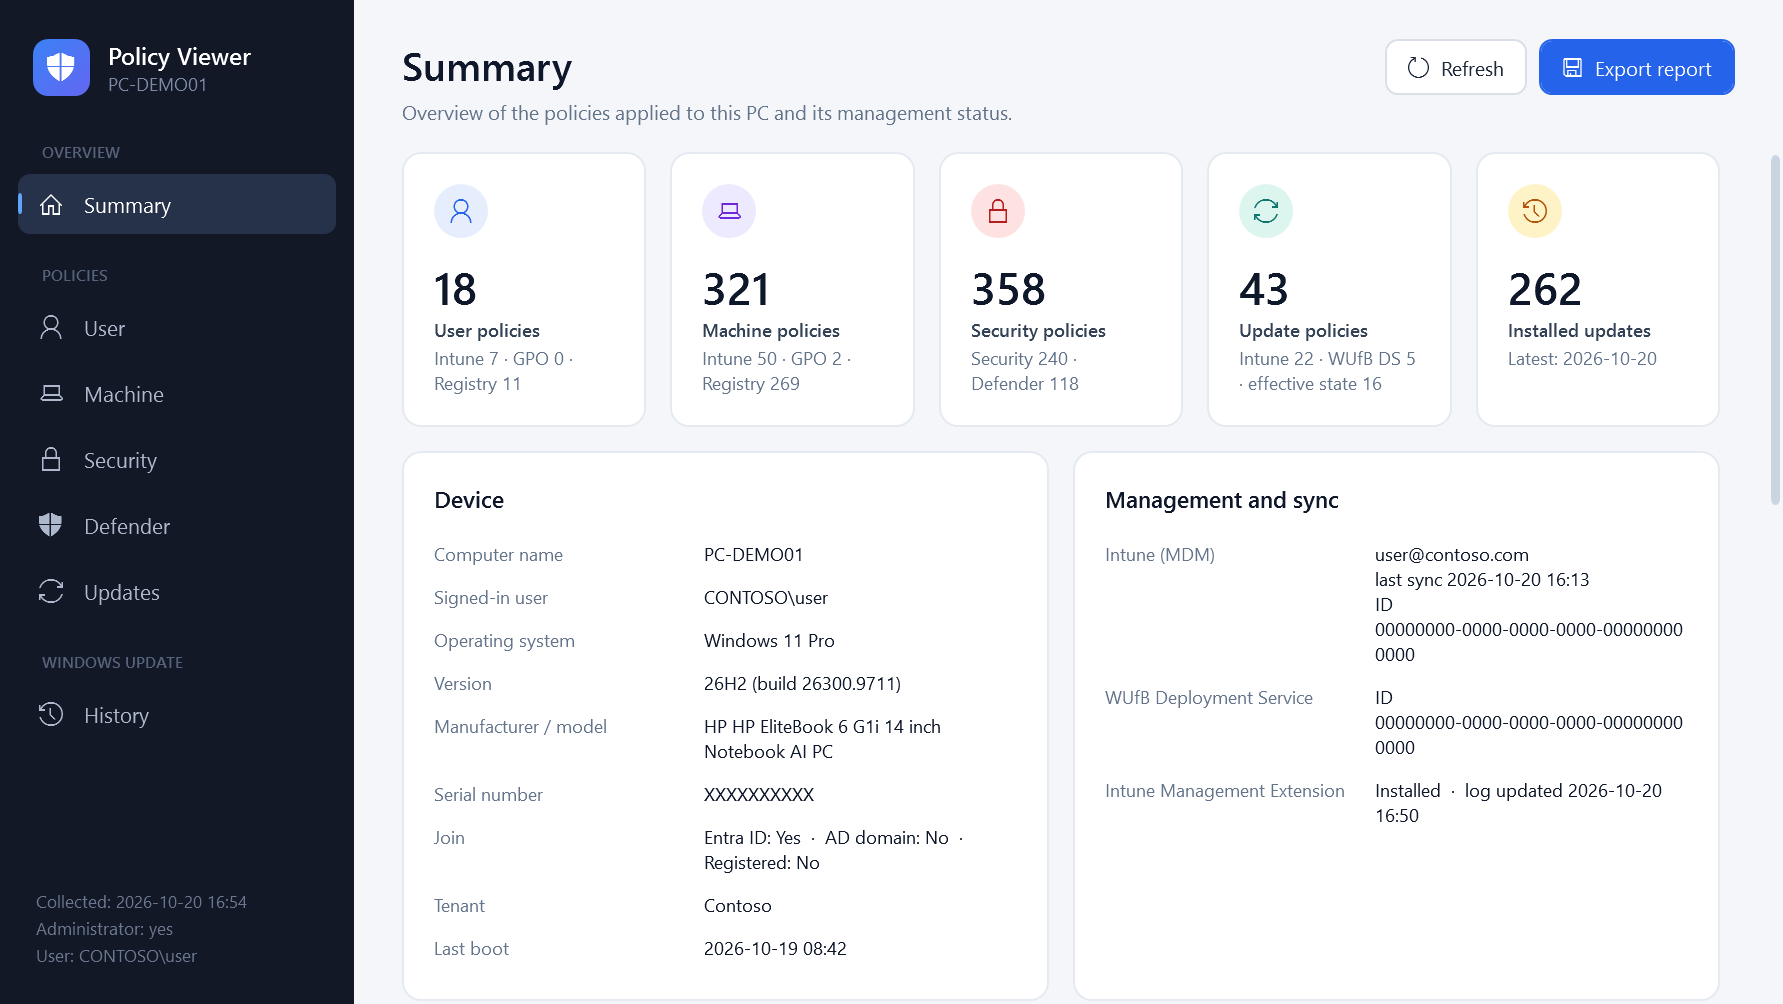
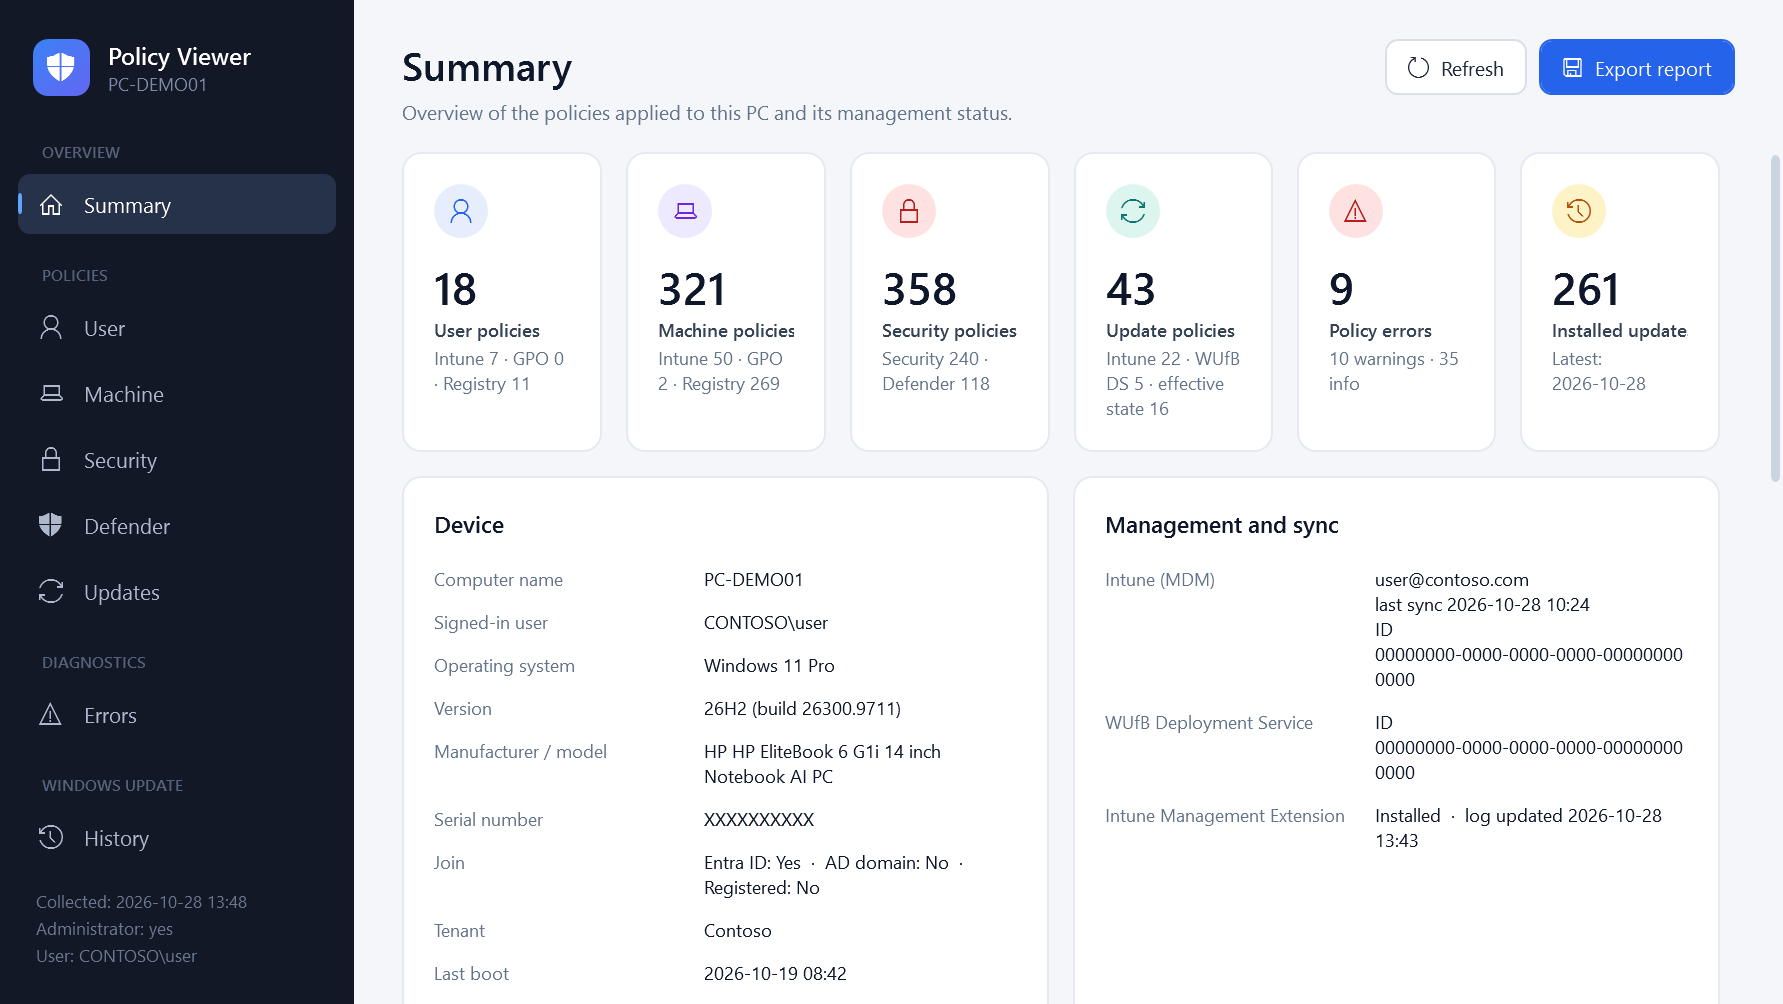
Add anonymized screenshots and fix MDM sync time zone
Add docs/screenshots (generated with --anonymize), including the new Errors page.
The MDM ConnInfo timestamps carry a Z suffix but are in local time; parse them
as local so the last sync time matches the event log.

diff --git a/src/Program.cs b/src/Program.cs
@@ -411,11 +411,12 @@ namespace PolicyViewer
             }
         }
 
+        // The "Z" suffix is misleading: Windows stores these values in local time (they match the MDM event log timestamps)
         static DateTime? ParseSyncTime(string v)
         {
             DateTime d;
-            if (v != null && DateTime.TryParseExact(v, "yyyyMMdd'T'HHmmss'Z'", CultureInfo.InvariantCulture, DateTimeStyles.AssumeUniversal | DateTimeStyles.AdjustToUniversal, out d))
-                return d.ToLocalTime();
+            if (v != null && DateTime.TryParseExact(v, "yyyyMMdd'T'HHmmss'Z'", CultureInfo.InvariantCulture, DateTimeStyles.AssumeLocal, out d))
+                return d;
             return null;
         }
 

diff --git a/README.md b/README.md
@@ -26,8 +26,8 @@ Identifying data (PC, user, tenant, serial number, firewall rules) is anonymized
 | ![User policies](docs/screenshots/User.png) | ![Security](docs/screenshots/Security.png) |
 | **Microsoft Defender** | **Updates** |
 | ![Microsoft Defender](docs/screenshots/Defender.png) | ![Updates](docs/screenshots/Updates.png) |
-| **Windows Update history** | |
-| ![History](docs/screenshots/History.png) | |
+| **Windows Update history** | **Policy errors** |
+| ![History](docs/screenshots/History.png) | ![Policy errors](docs/screenshots/Errors.png) |
 
 ## Usage
 
